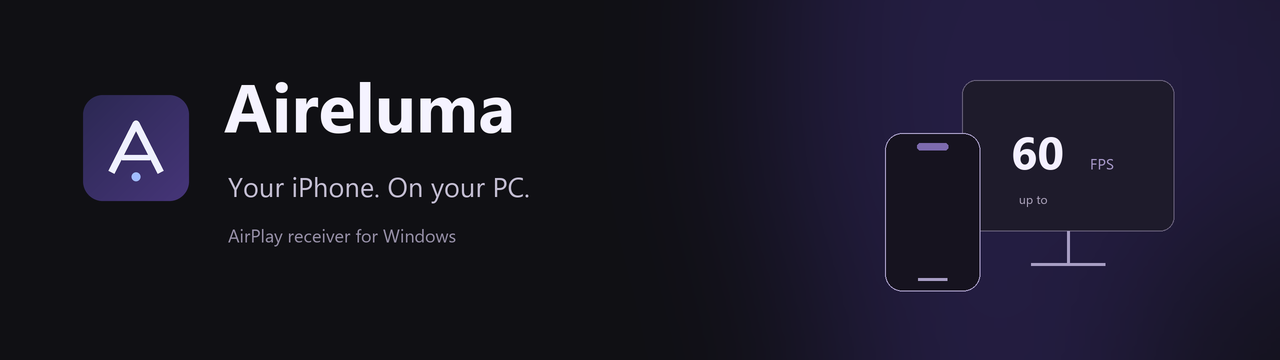
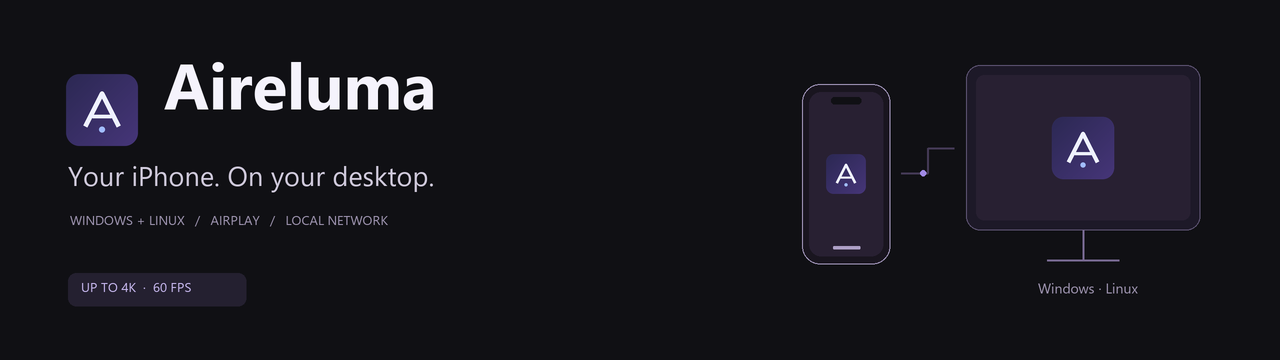
Refresh animated README artwork and verify Linux installation lifecycle

diff --git a/scripts/render-artwork.py b/scripts/render-artwork.py
@@ -1,0 +1,98 @@
+from pathlib import Path
+from PIL import Image, ImageDraw, ImageFont
+import os
+
+root = Path(__file__).resolve().parents[1]
+output = root / 'docs/images'
+scale = 2
+fonts = Path(os.environ.get('WINDIR', 'C:/Windows')) / 'Fonts'
+
+def font(size, bold=False):
+    path = fonts / ('segoeuib.ttf' if bold else 'segoeui.ttf')
+    if not path.exists():
+        path = Path('/usr/share/fonts/truetype/dejavu') / ('DejaVuSans-Bold.ttf' if bold else 'DejaVuSans.ttf')
+    return ImageFont.truetype(str(path), size * scale)
+
+def text(draw, x, y, value, size, color, bold=False):
+    draw.text((int(x * scale), int(y * scale)), value, font=font(size, bold), fill=color, anchor='lt')
+
+def box(draw, coordinates, radius, fill, outline=None, width=1):
+    draw.rounded_rectangle(tuple(int(v * scale) for v in coordinates), radius * scale, fill=fill, outline=outline, width=width * scale)
+
+def line(draw, points, color, width=1):
+    draw.line(tuple((int(x * scale), int(y * scale)) for x, y in points), fill=color, width=width * scale, joint='curve')
+
+def save_gif(frames, durations, destination):
+    samples = Image.new('RGB', (frames[0].width * 4, frames[0].height))
+    for i, index in enumerate([0, len(frames)//4, len(frames)//2, len(frames)*3//4]):
+        samples.paste(frames[index].convert('RGB'), (i * frames[0].width, 0))
+    palette = samples.quantize(colors=256)
+    frames = [frame.convert('RGB').quantize(palette=palette, dither=Image.Dither.NONE) for frame in frames]
+    frames[0].save(destination, save_all=True, append_images=frames[1:], duration=durations, loop=0, optimize=True, disposal=2)
+
+logo = Image.open(root / 'assets/aireluma.png').convert('RGBA')
+base = Image.new('RGB', (1280 * scale, 360 * scale), '#101014')
+draw = ImageDraw.Draw(base)
+base.paste(logo.resize((76 * scale, 76 * scale), Image.Resampling.LANCZOS), (64 * scale, 72 * scale), logo.resize((76 * scale, 76 * scale), Image.Resampling.LANCZOS))
+text(draw, 164, 62, 'Aireluma', 64, '#f5f3fc', True)
+text(draw, 68, 166, 'Your iPhone. On your desktop.', 27, '#d0cadc')
+text(draw, 70, 216, 'WINDOWS + LINUX   /   AIRPLAY   /   LOCAL NETWORK', 13, '#9f95b1')
+box(draw, (68, 273, 246, 306), 8, '#242030')
+text(draw, 81, 283, 'UP TO 4K  ·  60 FPS', 13, '#c7b8ef')
+box(draw, (966, 65, 1200, 230), 14, '#1d1928', '#5e5473')
+box(draw, (976, 75, 1190, 220), 8, '#282032')
+line(draw, [(1083, 230), (1083, 260)], '#786a92', 2)
+line(draw, [(1047, 260), (1119, 260)], '#786a92', 2)
+base.paste(logo.resize((66 * scale, 66 * scale), Image.Resampling.LANCZOS), (1050 * scale, 115 * scale), logo.resize((66 * scale, 66 * scale), Image.Resampling.LANCZOS))
+box(draw, (802, 84, 890, 264), 18, '#19151f', '#a498bd')
+box(draw, (809, 92, 883, 256), 12, '#282032')
+box(draw, (831, 97, 861, 104), 3, '#101014')
+box(draw, (833, 246, 860, 249), 1, '#aea0c7')
+base.paste(logo.resize((42 * scale, 42 * scale), Image.Resampling.LANCZOS), (825 * scale, 153 * scale), logo.resize((42 * scale, 42 * scale), Image.Resampling.LANCZOS))
+line(draw, [(901, 173), (928, 173), (928, 148), (954, 148)], '#443a56', 2)
+text(draw, 1038, 283, 'Windows · Linux', 14, '#9f95b1')
+frames = []
+for frame in range(42):
+    image = base.copy()
+    draw = ImageDraw.Draw(image)
+    progress = (frame / 42) * 78
+    if progress <= 27:
+        x, y = 901 + progress, 173
+    elif progress <= 52:
+        x, y = 928, 173 - (progress - 27)
+    else:
+        x, y = 928 + progress - 52, 148
+    radius = 3.0
+    draw.ellipse(((x-radius)*scale, (y-radius)*scale, (x+radius)*scale, (y+radius)*scale), fill='#a18ae6')
+    frames.append(image.resize((1280, 360), Image.Resampling.LANCZOS))
+frames[12].save(output / 'banner.png', optimize=True)
+save_gif(frames, [70] * len(frames), output / 'banner.gif')
+
+source = Image.open(output / 'themes.png').convert('RGB')
+panels = [source.crop((192,104,568,662)), source.crop((712,104,1088,662))]
+theme_frames = []
+durations = []
+states = [(0.0, 1800)]
+states += [(i / 12, 20) for i in range(1,13)]
+states += [(1.0, 1800)]
+states += [(1 - i / 12, 20) for i in range(1,13)]
+for amount, duration in states:
+    amount = amount * amount * (3 - 2 * amount)
+    background = tuple(round(a + (b-a)*amount) for a,b in zip((238,237,244),(29,26,37)))
+    foreground = tuple(round(a + (b-a)*amount) for a,b in zip((84,76,101),(203,193,221)))
+    image = Image.new('RGB', (600 * scale, 700 * scale), background)
+    draw = ImageDraw.Draw(image)
+    title = 'Light  ↔  Dark'
+    width = draw.textlength(title, font=font(17)) / scale
+    text(draw, (600-width)/2, 28, title, 17, foreground)
+    panel = Image.blend(panels[0], panels[1], amount).resize((376*scale,558*scale),Image.Resampling.LANCZOS)
+    mask = Image.new('L',panel.size)
+    ImageDraw.Draw(mask).rounded_rectangle((0,0,panel.width-1,panel.height-1),10*scale,fill=255)
+    image.paste(panel,(112*scale,76*scale),mask)
+    caption = 'Switch themes. Keep receiving.'
+    width = draw.textlength(caption,font=font(14))/scale
+    text(draw,(600-width)/2,661,caption,14,foreground)
+    theme_frames.append(image.resize((600,700),Image.Resampling.LANCZOS))
+    durations.append(duration)
+save_gif(theme_frames,durations,output/'theme-transition.gif')
+print('Rendered banner.png, banner.gif and theme-transition.gif')

diff --git a/README.md b/README.md
@@ -1,32 +1,48 @@
 <div align="center">
-  <img src="docs/images/banner.png" alt="Aireluma — your iPhone on Windows" width="100%">
+  <picture><source media="(prefers-reduced-motion: reduce)" srcset="docs/images/banner.png"><img src="docs/images/banner.gif" alt="Aireluma — your iPhone on Windows and Linux" width="100%"></picture>
   <p><strong>Your iPhone. On your PC.</strong><br>Screen and sound over your local network.</p>
   <p>
     <a href="https://github.com/Anchoder/Aireluma/releases/latest"><img alt="Latest release" src="https://img.shields.io/github/v/release/Anchoder/Aireluma?style=flat-square&color=7565e8"></a>
     <img alt="Windows 10 and 11, x64" src="https://img.shields.io/badge/Windows-10%20%2F%2011-4d78cc?style=flat-square">
+    <img alt="Ubuntu 24.04 x64" src="https://img.shields.io/badge/Linux-Ubuntu%2024.04-e95420?style=flat-square">
+    <a href="https://github.com/Anchoder/Aireluma/actions/workflows/linux.yml"><img alt="Linux package build" src="https://github.com/Anchoder/Aireluma/actions/workflows/linux.yml/badge.svg"></a>
     <a href="LICENSE"><img alt="GPL-3.0-or-later license" src="https://img.shields.io/badge/License-GPL--3.0--or--later-676777?style=flat-square"></a>
   </p>
-  <p><a href="https://github.com/Anchoder/Aireluma/releases/latest/download/Aireluma-Setup.exe"><strong>Download for Windows</strong></a> · <a href="docs/README.ru.md">Русский</a> · <a href="https://github.com/Anchoder/Aireluma/issues">Report an issue</a></p>
+  <p><a href="https://github.com/Anchoder/Aireluma/releases/latest/download/Aireluma-Setup.exe"><strong>Windows installer</strong></a> · <a href="https://github.com/Anchoder/Aireluma/releases/latest/download/Aireluma_0.8.0_amd64.deb"><strong>Linux .deb</strong></a> · <a href="docs/README.ru.md">Русский</a> · <a href="https://github.com/Anchoder/Aireluma/issues">Report an issue</a></p>
 </div>
 
 ## A small receiver for your desktop
 
-Aireluma brings iPhone screen mirroring and audio to Windows through AirPlay. Open it, enable reception, and select Aireluma from Screen Mirroring on your iPhone.
+Aireluma brings iPhone screen mirroring and audio to Windows and Linux through AirPlay. Open it, enable reception, and select Aireluma from Screen Mirroring on your iPhone.
 
 | Feature | What you get |
 | --- | --- |
 | Screen and audio | Mirror your iPhone with sound on your PC |
 | Up to 4K / 60 FPS | Request HEVC and a high-quality stream from your device |
-| Light and dark | Switch appearance instantly; your choice is remembered |
+| Light and dark | Smooth light-to-dark transitions; your choice is remembered |
 | Local network | Reception works on your LAN; a wired PC is supported |
-| System tray | Keep receiving after closing the control window |
-| Native playback | A branded Direct3D12 viewer opens with the incoming stream |
+| System tray on Windows | Keep receiving after closing the control window |
+| Native playback | Direct3D12 on Windows; GStreamer video playback on Linux |
 
 Resolution, codec and frame rate are negotiated by the iPhone and depend on your device, network and computer. The requested maximum is not a guaranteed output mode.
 
 ## Two themes. One compact interface.
 
-<img src="docs/images/themes.png" alt="Aireluma interface preview in light and dark themes" width="100%">
+<div align="center"><picture><source media="(prefers-reduced-motion: reduce)" srcset="docs/images/themes.png"><img src="docs/images/theme-transition.gif" alt="Preview of the light and dark theme transition" width="480"></picture></div>
+
+<details><summary>See both themes side by side</summary><img src="docs/images/themes.png" alt="Light and dark interface previews" width="100%"></details>
+
+## Install
+
+**Windows 10/11 x64:** download [Aireluma-Setup.exe](https://github.com/Anchoder/Aireluma/releases/latest/download/Aireluma-Setup.exe) and run the installer. Direct3D12 is required.
+
+**Ubuntu 24.04 x64:** download [the Debian package](https://github.com/Anchoder/Aireluma/releases/latest/download/Aireluma_0.8.0_amd64.deb), then install it with its dependencies:
+
+```sh
+sudo apt install ./Aireluma_0.8.0_amd64.deb
+```
+
+Open Aireluma from your application menu. To uninstall: `sudo apt remove aireluma`. Other Linux distributions can use the [source build instructions](docs/BUILDING.md). The prebuilt Linux package is built and checked on Ubuntu 24.04.
 
 ## Get connected
 
@@ -35,7 +51,7 @@ Resolution, codec and frame rate are negotiated by the iPhone and depend on your
 3. Connect your iPhone and PC to the same local network. The PC can use Ethernet.
 4. On your iPhone, open **Control Center → Screen Mirroring → Aireluma**.
 
-The current interface is in Russian. Windows 10/11 x64 and Direct3D12 support are required. Close the window to keep Aireluma in the tray; use the tray menu to exit. Uninstall it through Windows Settings.
+The current interface is in Russian. On Windows, closing the window keeps Aireluma in the tray; use the tray menu to exit. On Linux, closing the window stops reception and exits.
 
 ## Before opening an issue
 
@@ -47,7 +63,7 @@ The installer is currently unsigned. A SHA-256 checksum is included with each re
 
 ## Build and contribute
 
-The interface is written in Rust using the Win32 API. The receiver is based on [UxPlay](https://github.com/FDH2/UxPlay), with GStreamer for playback. See [the build guide](docs/BUILDING.md) for dependencies, the pinned upstream source, and the published receiver patch.
+The interface is written in Rust using Win32 on Windows and GTK4 on Linux. The receiver is based on [UxPlay](https://github.com/FDH2/UxPlay), with GStreamer for playback. See [the build guide](docs/BUILDING.md) for dependencies, the pinned upstream source, and the published receiver patch.
 
 Bug reports with Windows and iOS versions, a short reproduction, and whether Photos playback works are welcome. Avoid posting personal network information or private screen content.
 

diff --git a/docs/README.ru.md b/docs/README.ru.md
@@ -1,21 +1,31 @@
 <div align="center">
-  <img src="images/banner.png" alt="Aireluma — экран iPhone на Windows" width="100%">
+  <picture><source media="(prefers-reduced-motion: reduce)" srcset="images/banner.png"><img src="images/banner.gif" alt="Aireluma — экран iPhone на Windows и Linux" width="100%"></picture>
   <p><strong>Экран и звук iPhone на компьютере. Без проводов.</strong></p>
-  <p><a href="https://github.com/Anchoder/Aireluma/releases/latest/download/Aireluma-Setup.exe">Скачать для Windows</a> · <a href="../README.md">English</a> · <a href="https://github.com/Anchoder/Aireluma/issues">Сообщить о проблеме</a></p>
+  <p><a href="https://github.com/Anchoder/Aireluma/releases/latest/download/Aireluma-Setup.exe">Windows</a> · <a href="https://github.com/Anchoder/Aireluma/releases/latest/download/Aireluma_0.8.0_amd64.deb">Linux .deb</a> · <a href="../README.md">English</a> · <a href="https://github.com/Anchoder/Aireluma/issues">Сообщить о проблеме</a></p>
 </div>
 
 ## Возможности
 
 - Повтор экрана и звука iPhone по AirPlay в локальной сети.
 - Приём с запросом HEVC, разрешения до 4K и частоты до 60 FPS.
-- Светлая и тёмная темы с сохранением выбора.
-- Работа в трее после закрытия окна.
-- Автоматическое окно просмотра Direct3D12 с названием и значком Aireluma.
+- Светлая и тёмная темы с плавным переходом и сохранением выбора.
+- Работа в трее после закрытия окна на Windows.
+- Автоматическое окно просмотра: Direct3D12 на Windows, GStreamer на Linux.
 - Обычный установщик и удаление через параметры Windows.
 
 Фактическое разрешение, кодек и частоту выбирает iPhone. Результат зависит от устройства, сети и компьютера. Некоторые приложения ограничивают захват или используют отдельный маршрут AirPlay для видео; такой контент может не отображаться.
 
-<img src="images/themes.png" alt="Предпросмотр светлой и тёмной тем Aireluma" width="100%">
+<div align="center"><picture><source media="(prefers-reduced-motion: reduce)" srcset="images/themes.png"><img src="images/theme-transition.gif" alt="Предпросмотр плавной смены темы" width="480"></picture></div>
+
+## Установка на Linux
+
+Готовый пакет рассчитан на **Ubuntu 24.04 x64**. Скачайте `.deb` из [релиза](https://github.com/Anchoder/Aireluma/releases/latest) и установите:
+
+```sh
+sudo apt install ./Aireluma_0.8.0_amd64.deb
+```
+
+Приложение появится в меню программ. Удаление: `sudo apt remove aireluma`. Сборка для других дистрибутивов описана в [BUILDING.md](BUILDING.md). На Linux закрытие окна останавливает приёмник и завершает приложение.
 
 ## Подключение
 
@@ -24,10 +34,10 @@
 3. Подключите iPhone и компьютер к одной локальной сети. Компьютер может использовать Ethernet.
 4. На iPhone откройте **Пункт управления → Повтор экрана** и выберите **Aireluma**.
 
-Нужны Windows 10/11 x64 и поддержка Direct3D12. Если приёмник не виден, проверьте, что устройства находятся в одной сети и роутер не изолирует клиентов. При разрешении доступа брандмауэра выбирайте только доверенную домашнюю сеть.
+Для Windows нужны версия 10/11 x64 и поддержка Direct3D12. Если приёмник не виден, проверьте, что устройства находятся в одной сети и роутер не изолирует клиентов. При разрешении доступа брандмауэра выбирайте только доверенную домашнюю сеть.
 
 ## Исходники
 
-Интерфейс написан на Rust с Win32 API. Приём обеспечивает [UxPlay](https://github.com/FDH2/UxPlay), воспроизведение — GStreamer. Инструкция сборки: [BUILDING.md](BUILDING.md). Установщик опубликован в релизах; большие двоичные зависимости не хранятся в Git.
+Интерфейс написан на Rust: Win32 API для Windows и GTK4 для Linux. Приём обеспечивает [UxPlay](https://github.com/FDH2/UxPlay), воспроизведение — GStreamer. Инструкция сборки: [BUILDING.md](BUILDING.md). Установщик опубликован в релизах; большие двоичные зависимости не хранятся в Git.
 
 Проект распространяется под [GPL-3.0-or-later](../LICENSE). Лицензии сторонних компонентов сохраняются. Aireluma — независимый проект, не связанный с Apple.

diff --git a/docs/BUILDING.md b/docs/BUILDING.md
@@ -40,3 +40,30 @@ The upstream revision and source URL are recorded in `engine/upstream.json`. `en
 ## Themes
 
 The theme switch applies immediately and saves the preference in `%APPDATA%/Aireluma/appearance`. A fresh installation uses the light theme. Theme changes do not restart the receiver.
+
+## Linux
+
+The packaged build targets Ubuntu 24.04 x64 and uses GTK4. On Ubuntu, install the build dependencies:
+
+```sh
+sudo apt install build-essential git cmake ninja-build pkg-config libgtk-4-dev libplist-dev libssl-dev libgstreamer1.0-dev libgstreamer-plugins-base1.0-dev gstreamer1.0-plugins-base gstreamer1.0-plugins-good gstreamer1.0-plugins-bad gstreamer1.0-libav
+```
+
+With Rust installed through rustup:
+
+```sh
+bash scripts/build-linux.sh
+sudo apt install ./artifacts/Aireluma_0.8.0_amd64.deb
+```
+
+The script builds the pinned, patched UxPlay receiver and installs it inside the package at `/usr/lib/aireluma/uxplay`. System packages supply GTK4 and GStreamer. Exact shared-library dependencies are generated by `dpkg-shlibdeps`. The desktop entry and application icon are included in the package.
+
+For a UI smoke check without a display server:
+
+```sh
+GSK_RENDERER=cairo xvfb-run -a target/release/airplay-windows --smoke-test
+```
+
+Linux appearance is saved in `$XDG_CONFIG_HOME/aireluma/appearance`, or `~/.config/aireluma/appearance`. On Windows, the theme transition follows the system animation preference.
+
+The README artwork can be regenerated with Python and Pillow: `python scripts/render-artwork.py`.
